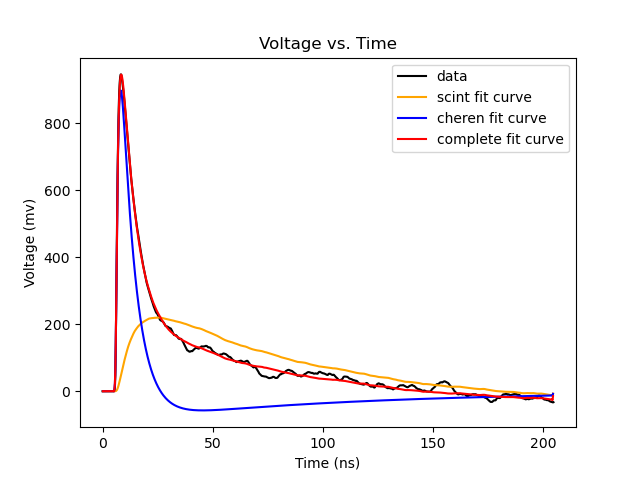
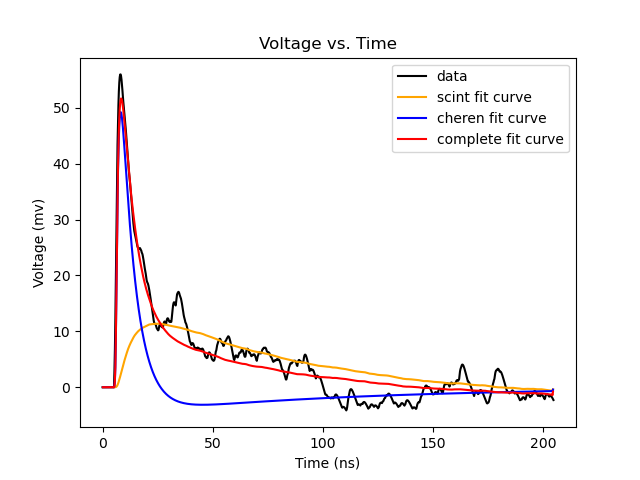
working on sampling

diff --git a/fit_class.py b/fit_class.py
@@ -123,10 +123,15 @@ class simulation_fitter:
 
 
     def fit_data(self, data_x, data_y, data_x_coord, data_y_coord, event, particle, energy):
+        
+        step = 2
+        data_x = np.asarray(data_x[::step], dtype=np.float64)
+        data_y = np.asarray(data_y[::step], dtype=np.float64)
+        print(type(data_x), data_x.dtype, data_x.shape)
+        print(type(data_y), data_y.dtype, data_y.shape)
         graph = ROOT.TGraph(len(data_x), data_x, data_y)
         graph.SetTitle(f"Particle: {particle}, Energy: {energy}, Layer: 1, Event: {event}")
         graph.Fit(self.fit_func, "R")
-        
         scint_photons, cheren_photons = self.get_photon_data_by_event(event, data_x_coord, data_y_coord)
 
         scint_photon_guess = self.fit_func.GetParameter(0)
